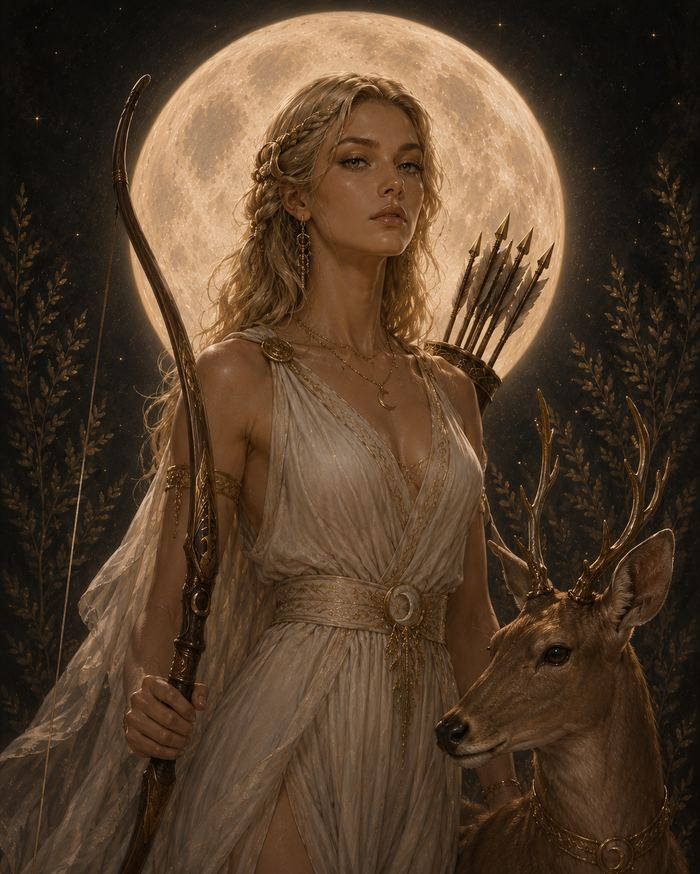
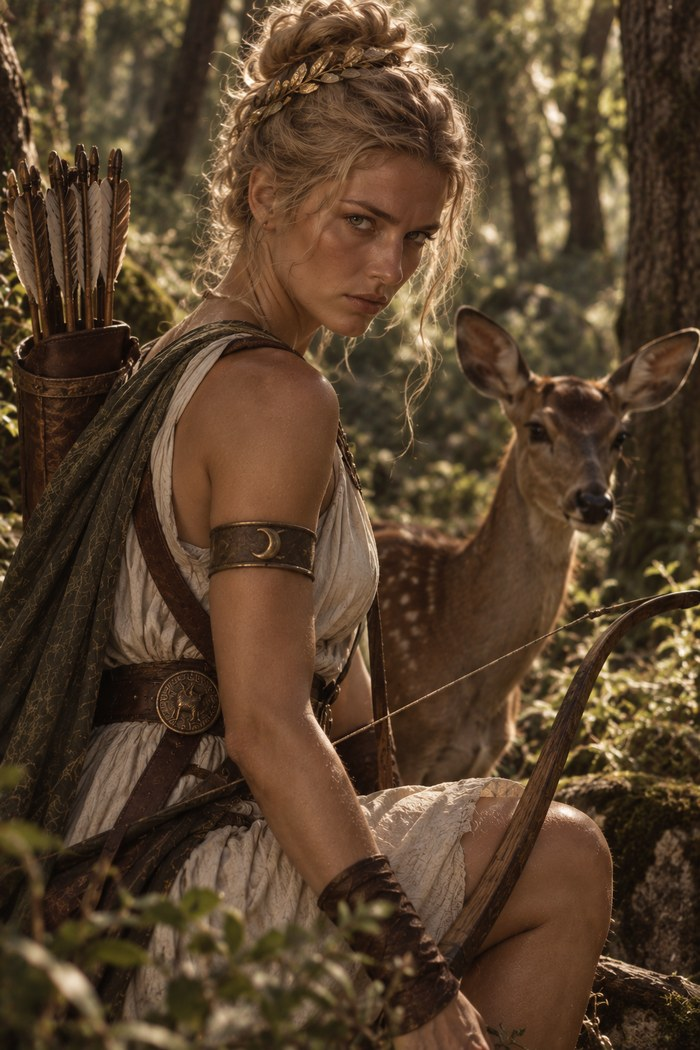
Quatre nouveaux portraits : Arachné, Aristée, Artémis (remplacé), Ascagne
- Ajoute les portraits d'Arachné, Aristée et Ascagne
- Remplace le portrait d'Artémis par une nouvelle image (arc, bandeau doré, biche)
- DEITY_PORTRAIT_WIDE : Arachné et Artémis en affichage non recadré (chignon
  tressé / bandeau doré coupés en recadrage 4:5 standard) ; Aristée et
  Ascagne gardent le recadrage standard, marge suffisante vérifiée
  visuellement
- service-worker.js : pantheon-v55 → pantheon-v56

Claude-Session: https://claude.ai/code/session_01RmV4NQeKHMug67uKaeW5hA

diff --git a/service-worker.js b/service-worker.js
@@ -1,4 +1,4 @@
-const CACHE="pantheon-v55";
+const CACHE="pantheon-v56";
 const ASSETS=["./","./index.html","./styles.css","./app.js","./manifest.json","./icon.svg","./icon-192.png","./icon-512.png","./icon-180.png","./politique-confidentialite.html","./assets/hero-olympians.jpg","./assets/badge-home-temple.webp","./assets/badge-figures-portrait.webp","./assets/badge-symbols-lyre.webp","./assets/badge-genealogy-mother.webp","./assets/badge-places-map.webp","./assets/home-olive-branch.webp","./assets/symbol-abeille.webp","./assets/symbol-aigle.webp","./assets/symbol-ailes.webp","./assets/symbol-air.webp","./assets/symbol-araignee.webp","./assets/symbol-arc.webp","./assets/symbol-arc-en-ciel.webp","./assets/symbol-aurore.webp","./assets/symbol-balance.webp","./assets/symbol-belier.webp","./assets/symbol-ble.webp","./assets/symbol-caduceus.webp","./assets/symbol-carrefour.webp","./assets/symbol-cerf.webp","./assets/symbol-chaine.webp","./assets/symbol-char.webp","./assets/symbol-char-solaire.webp","./assets/symbol-chemin.webp","./assets/symbol-chene.webp","./assets/symbol-cheval.webp","./assets/symbol-chevre.webp","./assets/symbol-chien.webp","./assets/symbol-chouette.webp","./assets/symbol-cle.webp","./assets/symbol-colombe.webp","./assets/symbol-corbeau.webp","./assets/symbol-couronne.webp","./assets/symbol-crabe.webp","./assets/symbol-cygne.webp","./assets/symbol-corne-abondance.webp","./assets/symbol-eau.webp","./assets/symbol-dauphin.webp","./assets/symbol-cypres.webp","./assets/symbol-egide.webp","./assets/symbol-eclair.webp","./assets/symbol-eclipse.webp","./assets/symbol-etoile.webp","./assets/symbol-feu.webp","./assets/symbol-figue.webp","./assets/symbol-fil.webp","./assets/symbol-fleche.webp","./assets/symbol-crocus.webp","./assets/symbol-narcisse-fleur.webp","./assets/symbol-flute.webp","./assets/symbol-foret.webp","./assets/symbol-graine.webp","./assets/symbol-grenade.webp","./assets/symbol-grotte.webp","./assets/symbol-labyrinthe.webp","./assets/symbol-lance.webp","./assets/symbol-lanterne.webp","./assets/symbol-foudre.webp","./assets/symbol-laurier.webp","./assets/symbol-lierre.webp","./assets/symbol-lion.webp","./assets/symbol-lotus.webp","./assets/symbol-lune.webp","./assets/symbol-lyre.webp","./assets/symbol-miroir.webp","./assets/symbol-myrte.webp","./assets/symbol-noix.webp","./assets/symbol-olive.webp","./assets/symbol-olivier.webp","./assets/symbol-ouroboros.webp","./assets/symbol-paon.webp","./assets/symbol-papillon.webp","./assets/symbol-pavot.webp","./assets/symbol-pegase.webp","./assets/symbol-poisson.webp","./assets/symbol-pomme.webp","./assets/symbol-pont.webp","./assets/symbol-porte.webp","./assets/symbol-raisin.webp","./assets/symbol-riviere.webp","./assets/symbol-rose.webp","./assets/symbol-roue.webp","./assets/symbol-sanglier.webp","./assets/symbol-sceptre.webp","./assets/symbol-scorpion.webp","./assets/symbol-serpent.webp","./assets/symbol-soleil.webp","./assets/symbol-taureau.webp","./assets/symbol-temple.webp","./assets/symbol-terre.webp","./assets/symbol-torche.webp","./assets/symbol-torches.webp","./assets/symbol-trident.webp","./assets/symbol-vigne.webp","./assets/symbol-voile.webp","./assets/map-icon-sanctuaire.webp","./assets/map-icon-montagne.webp","./assets/map-icon-cite.webp","./assets/map-icon-ile.webp","./assets/map-icon-detroit.webp","./assets/map-icon-source.webp","./assets/map-icon-souterrain.webp"];
 
 self.addEventListener("install",event=>{

diff --git a/app.js b/app.js
@@ -524,6 +524,9 @@ const DEITY_PORTRAITS = {
   "antiope-thébaine": "assets/deity-antiope-thebaine.jpg",
   "antigone": "assets/deity-antigone-oedipe-colone.jpg",
   "amphitryon": "assets/deity-amphitryon.jpg",
+  "arachné": "assets/deity-arachne.jpg",
+  "aristée": "assets/deity-aristee.jpg",
+  "ascagne": "assets/deity-ascagne.jpg",
 };
 // Même principe que DEITY_PORTRAITS, mais pour la bibliothèque symbolique : une illustration
 // dédiée (fournie par l'utilisatrice, fond détouré) qui remplace l'emoji d'un symbole partout où
@@ -642,7 +645,7 @@ const SYMBOL_INLINE_ILLUSTRATIONS = {
     { match: "Cerbère", src: "assets/deity-cerbere.webp", alt: "Cerbère, le chien à trois têtes qui garde l'entrée des Enfers" },
   ],
 };
-const DEITY_PORTRAIT_WIDE = new Set(["muses", "pâris", "orion", "heures", "parques", "hersé", "amazones", "penthésilée", "castor", "pollux", "amphion", "zéthos", "aphrodite", "antiope-thébaine", "antigone"]);
+const DEITY_PORTRAIT_WIDE = new Set(["muses", "pâris", "orion", "heures", "parques", "hersé", "amazones", "penthésilée", "castor", "pollux", "amphion", "zéthos", "aphrodite", "antiope-thébaine", "antigone", "artémis", "arachné"]);
 const DEITY_INLINE_PORTRAITS = {
   "dionysos": [
     { match: "Ménades", src: "assets/deity-dionysos-cortege.jpg", alt: "Le cortège de Dionysos" },

diff --git a/README.md b/README.md
@@ -2126,3 +2126,31 @@ Vérifié par Playwright : bouton présent avec le bon libellé dans les deux é
 clé posée en localStorage).
 
 `service-worker.js` (Panthéon) : `pantheon-v54` → `pantheon-v55`.
+
+## Quatre nouveaux portraits : Arachné, Aristée, Artémis (remplacé), Ascagne
+
+Deuxième série de portraits fournis par l'utilisatrice, même traitement que la série précédente
+(Aphrodite, Antiope thébaine, Antigone, Amphitryon).
+
+- **Arachné** : nouveau portrait, tisserande à son métier avec la chouette d'Athéna en arrière-plan.
+- **Aristée** : nouveau portrait, sous un olivier avec ses abeilles, ses olives et son fromage.
+- **Artémis** : portrait remplacé (chasseresse à l'arc, bandeau doré, avec un cerf).
+- **Ascagne** : nouveau portrait, sur les hauteurs surplombant Albe la Longue.
+
+Même analyse de recadrage que la série précédente, par lignes de délimitation dessinées sur les
+originaux aux offsets exacts du recadrage 4:5 (`object-fit: cover`) : Arachné et Artémis perdent
+le sommet de leur coiffure (chignon tressé, bandeau doré en laurier) au recadrage standard — les
+deux passent donc en `DEITY_PORTRAIT_WIDE` (aspect-ratio auto, aucun recadrage). Aristée et
+Ascagne, au format source plus proche du 4:5 cible, gardent une marge suffisante au recadrage
+standard une fois vérifié visuellement.
+
+Les quatre images sont retaillées à 700px de large, JPEG qualité 88 — même format que le reste
+de `DEITY_PORTRAITS` (700×1050 pour les deux en format large, 700×875 pour les deux recadrées).
+
+Testé par la suite complète remise à jour et repassée au vert (523 vérifications, dont un nouveau
+bloc dédié : les quatre portraits présents avec leurs fichiers, le duo en format large confirmé,
+Aristée et Ascagne confirmés à l'inverse absents de ce même ensemble). Vérifié aussi visuellement
+par Playwright, en clair et en sombre, sur les quatre fiches : chignon d'Arachné et bandeau doré
+d'Artémis intacts, cadrages d'Aristée et Ascagne corrects.
+
+`service-worker.js` (Panthéon) : `pantheon-v55` → `pantheon-v56`.
